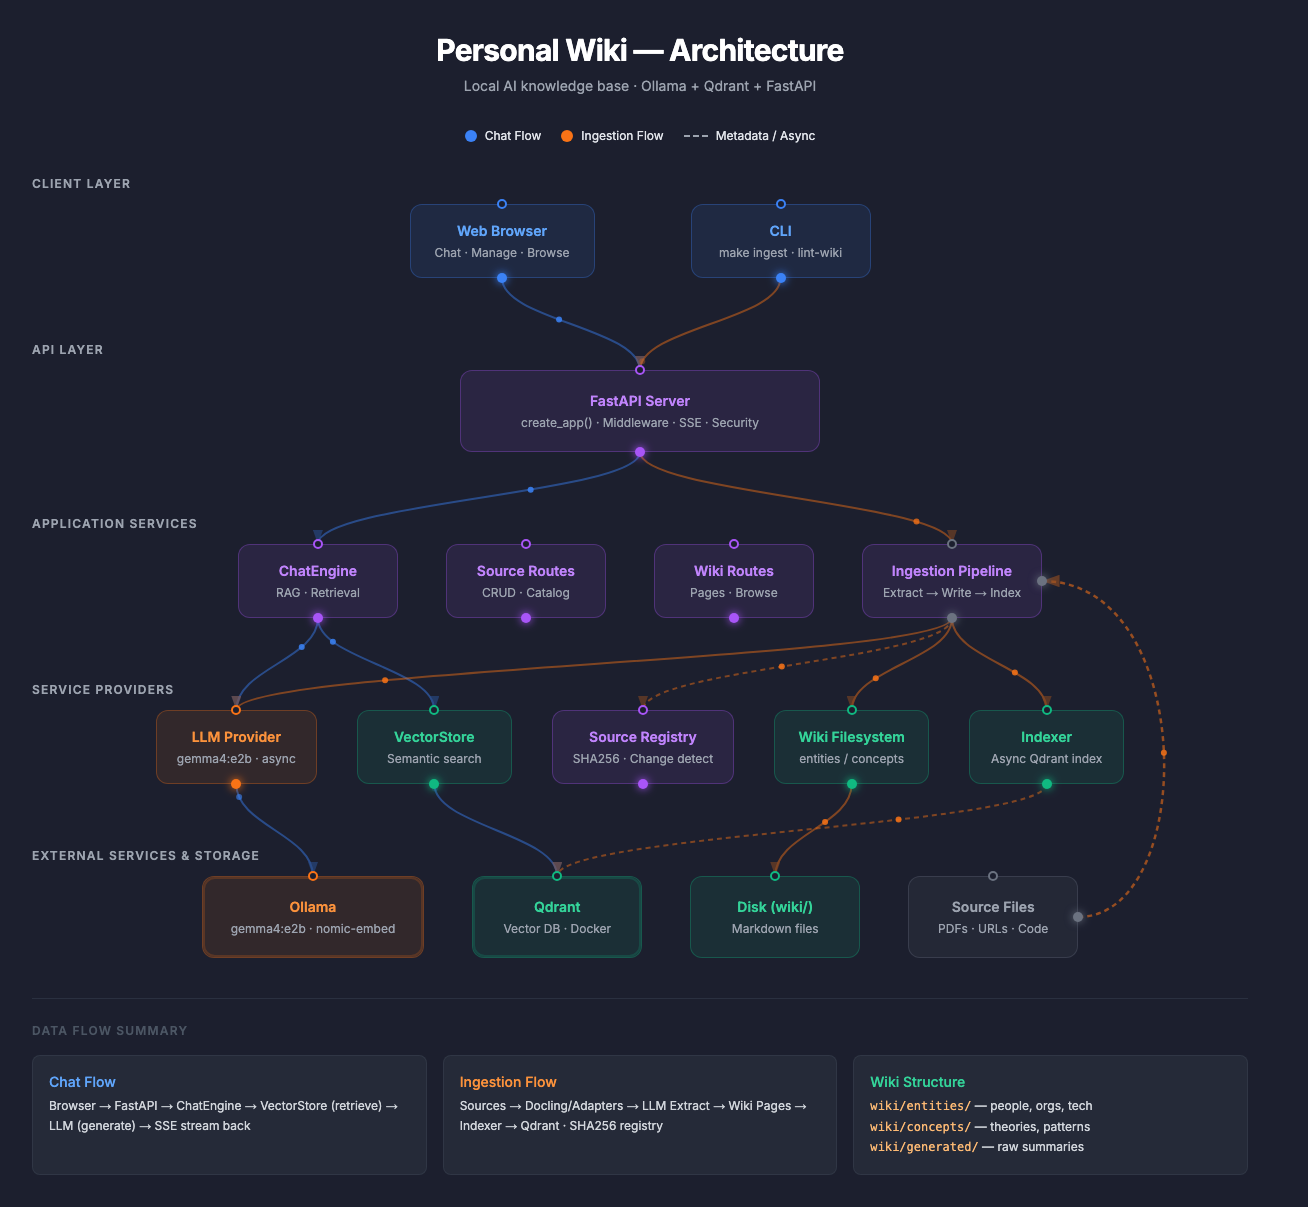
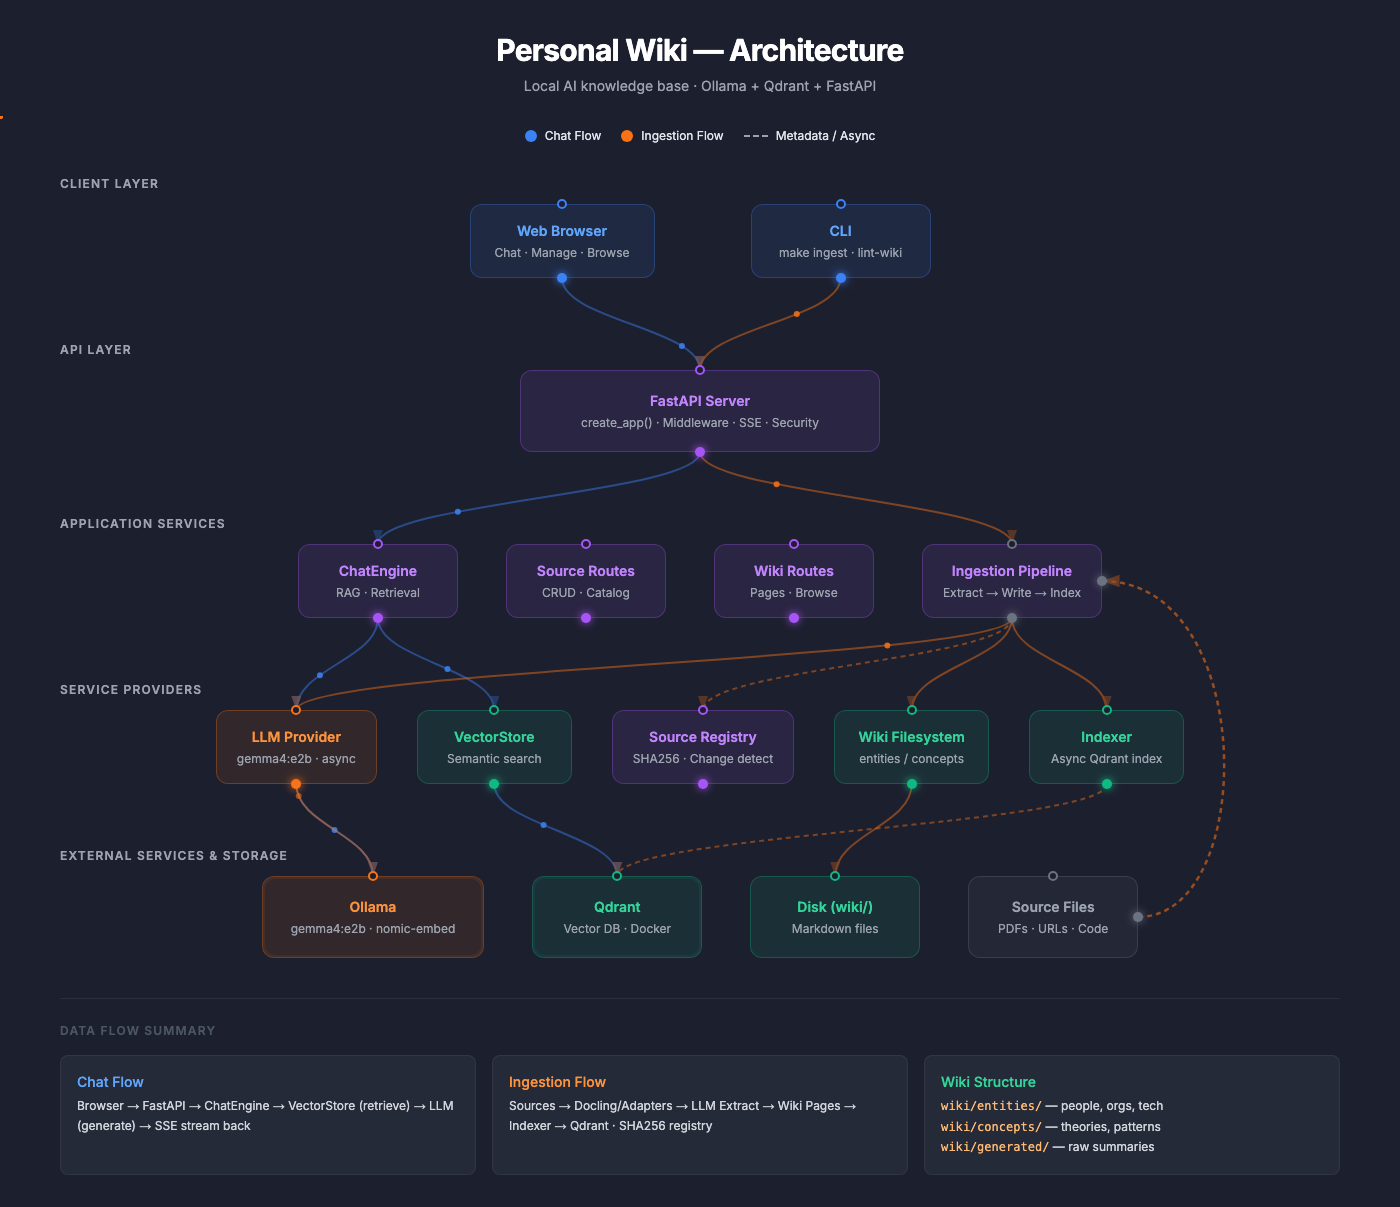
docs: add orange ingestion flow connection between LLM Provider and Ollama
Both chat (blue) and ingestion (orange) flows now share the LLM Provider → Ollama path, reflecting that Ollama powers entity extraction for ingestion as well as chat completions.

diff --git a/diagrams/architecture.html b/diagrams/architecture.html
@@ -371,6 +371,7 @@ const connections = [
   { from: 'cli',         to: 'fastapi',     color: '#f97316' },
   { from: 'fastapi',     to: 'pipeline',    color: '#f97316' },
   { from: 'pipeline',    to: 'llm',         color: '#f97316' },
+  { from: 'llm',         to: 'ollama',      color: '#f97316' },
   { from: 'pipeline',    to: 'wikifs',      color: '#f97316' },
   { from: 'pipeline',    to: 'indexer',     color: '#f97316' },
   { from: 'pipeline',    to: 'registry',    color: '#f97316', dashed: true },
@@ -390,7 +391,7 @@ function portPos(id, side) {
   if (side === 'left') return { x: rect.left - svgRect.left, y: rect.top + rect.height / 2 - svgRect.top };
 }
 
-function buildPath(from, to, route) {
+function buildPath(from, to, route, offsetX = 0) {
   // Special: side-right route (upward sweep along right edge)
   if (route === 'side-right') {
     const src = portPos(from, 'right');
@@ -421,6 +422,11 @@ function buildPath(from, to, route) {
 
   const dy = Math.abs(ty - sy);
   const cp = Math.max(dy * 0.45, 20);
+
+  // apply horizontal offset at source only — both arrows converge at the same target
+  if (offsetX) {
+    return `M ${sx + offsetX} ${sy} C ${sx + offsetX} ${sy + cp}, ${tx} ${ty - cp}, ${tx} ${ty}`;
+  }
   return `M ${sx} ${sy} C ${sx} ${sy + cp}, ${tx} ${ty - cp}, ${tx} ${ty}`;
 }
 
@@ -430,7 +436,7 @@ function renderPaths() {
   svg.querySelectorAll('.conn-path, .conn-dot').forEach(n => n.remove());
 
   connections.forEach((c, i) => {
-    const d = buildPath(c.from, c.to, c.route);
+    const d = buildPath(c.from, c.to, c.route, c.offsetX || 0);
     if (!d) return;
 
     // path — set ID BEFORE appending so mpath can reference it
